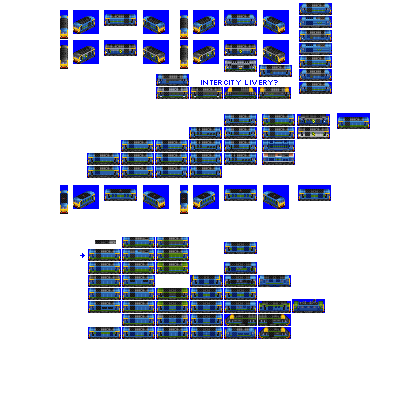
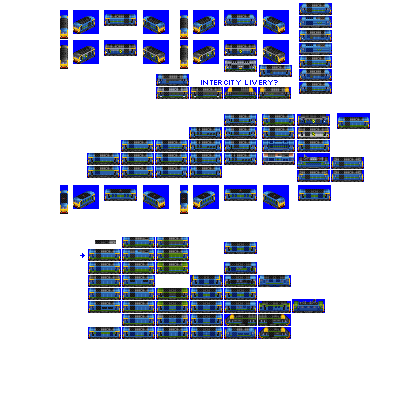
Change: Vanguard sprite was unused following change to Rapid, use as Centaur dedicated freight engine, move Viking to a separate branch

Changed region(s): [[0.72, 0.33, 0.93, 0.48]]

diff --git a/src/vehicles/centaur.py b/src/vehicles/centaur.py
@@ -4,18 +4,18 @@ from train import EngineConsist, DieselEngineUnit
 def main(roster_id):
     consist = EngineConsist(
         roster_id=roster_id,
-        id="slug",
-        base_numeric_id=10040,
-        name="Slug",
+        id="centaur",
+        base_numeric_id=14810,
+        name="Centaur",
         role="freight",
-        role_child_branch_num=2,
+        role_child_branch_num=-2,
         power_by_power_source={
             "DIESEL": 1950,  # progression calculated to maintain hp/speed ratio from previous gen
         },
         random_reverse=True,
         gen=5,
         # red stripe? Teeside steelmaster?
-        additional_liveries=["RAILFREIGHT_TRIPLE_GREY", "DBSCHENKER"],
+        additional_liveries=["RAILFREIGHT_TRIPLE_GREY"],
         default_livery_extra_docs_examples=[
             ("COLOUR_GREY", "COLOUR_YELLOW"),
             ("COLOUR_WHITE", "COLOUR_GREY"),
@@ -25,14 +25,14 @@ def main(roster_id):
             ("COLOUR_YELLOW", "COLOUR_YELLOW"),
         ],
         caboose_family="railfreight_2",
-        sprites_complete=False,
+        sprites_complete=True,
     )
 
     consist.add_unit(
         type=DieselEngineUnit, weight=110, vehicle_length=8, spriterow_num=0
     )
 
-    consist.description = """We made these by uprating the Growler engine.  New paint too, don't spoil it."""
-    consist.foamer_facts = """refurbished BR Class 37, with new alternator and uprated engine (per 2,000hp 37292)"""
+    consist.description = """"""
+    consist.foamer_facts = """"""
 
     return consist

diff --git a/src/rosters/pony.py b/src/rosters/pony.py
@@ -27,6 +27,7 @@ from vehicles import buffalo
 from vehicles import captain_steel
 from vehicles import cargo_sprinter
 from vehicles import carrack
+from vehicles import centaur
 
 # from vehicles import challenger # for NA roster
 from vehicles import cheddar_valley
@@ -661,6 +662,7 @@ def main():
             growler,
             merlion,
             slug,
+            centaur,
             viking,
             xerxes,
             vigilant,

diff --git a/src/vehicles/diablo.py b/src/vehicles/diablo.py
@@ -8,8 +8,7 @@ def main(roster_id):
         base_numeric_id=4910,
         name="2-6-0 Diablo",
         role="freight",
-        role_child_branch_num=-1,
-        replacement_consist_id="growler",  # this Joker ends with Growler
+        role_child_branch_num=-2,
         power_by_power_source={
             "STEAM": 1500,  # same as Haar
         },

diff --git a/src/vehicles/braf.py b/src/vehicles/braf.py
@@ -8,7 +8,7 @@ def main(roster_id):
         base_numeric_id=0,
         name="2-6-0 Braf",  # Welsh for "fine, nice, pleasant" https://omniglot.com/language/weather/welsh.htm
         role="freight",
-        role_child_branch_num=1,
+        role_child_branch_num=2,
         power_by_power_source={
             "STEAM": 1250,
         },

diff --git a/src/vehicles/viking.py b/src/vehicles/viking.py
@@ -8,7 +8,7 @@ def main(roster_id):
         base_numeric_id=9820,
         name="Viking",
         role="freight",
-        role_child_branch_num=-1,  # does not directly follow from Merlion
+        role_child_branch_num=-1,
         power_by_power_source={
             "DIESEL": 1950,
         },

diff --git a/src/vehicles/hercules.py b/src/vehicles/hercules.py
@@ -8,7 +8,7 @@ def main(roster_id):
         base_numeric_id=380,
         name="0-6-0 Hercules",
         role="freight",
-        role_child_branch_num=1,
+        role_child_branch_num=2,
         power_by_power_source={
             "STEAM": 1100,
         },

diff --git a/src/vehicles/merlion.py b/src/vehicles/merlion.py
@@ -8,7 +8,7 @@ def main(roster_id):
         base_numeric_id=15420,
         name="Merlion",
         role="freight",
-        role_child_branch_num=-1,
+        role_child_branch_num=-2,
         power_by_power_source={
             "DIESEL": 1750,
         },

diff --git a/src/vehicles/haar.py b/src/vehicles/haar.py
@@ -8,7 +8,7 @@ def main(roster_id):
         base_numeric_id=1880,
         name="0-8-0 Haar",
         role="freight",
-        role_child_branch_num=1,
+        role_child_branch_num=2,
         power_by_power_source={
             "STEAM": 1500,
         },

diff --git a/src/vehicles/growler.py b/src/vehicles/growler.py
@@ -8,7 +8,7 @@ def main(roster_id):
         base_numeric_id=11280,
         name="Growler",
         role="freight",
-        role_child_branch_num=1,
+        role_child_branch_num=2,
         power_by_power_source={
             "DIESEL": 1750,
         },
